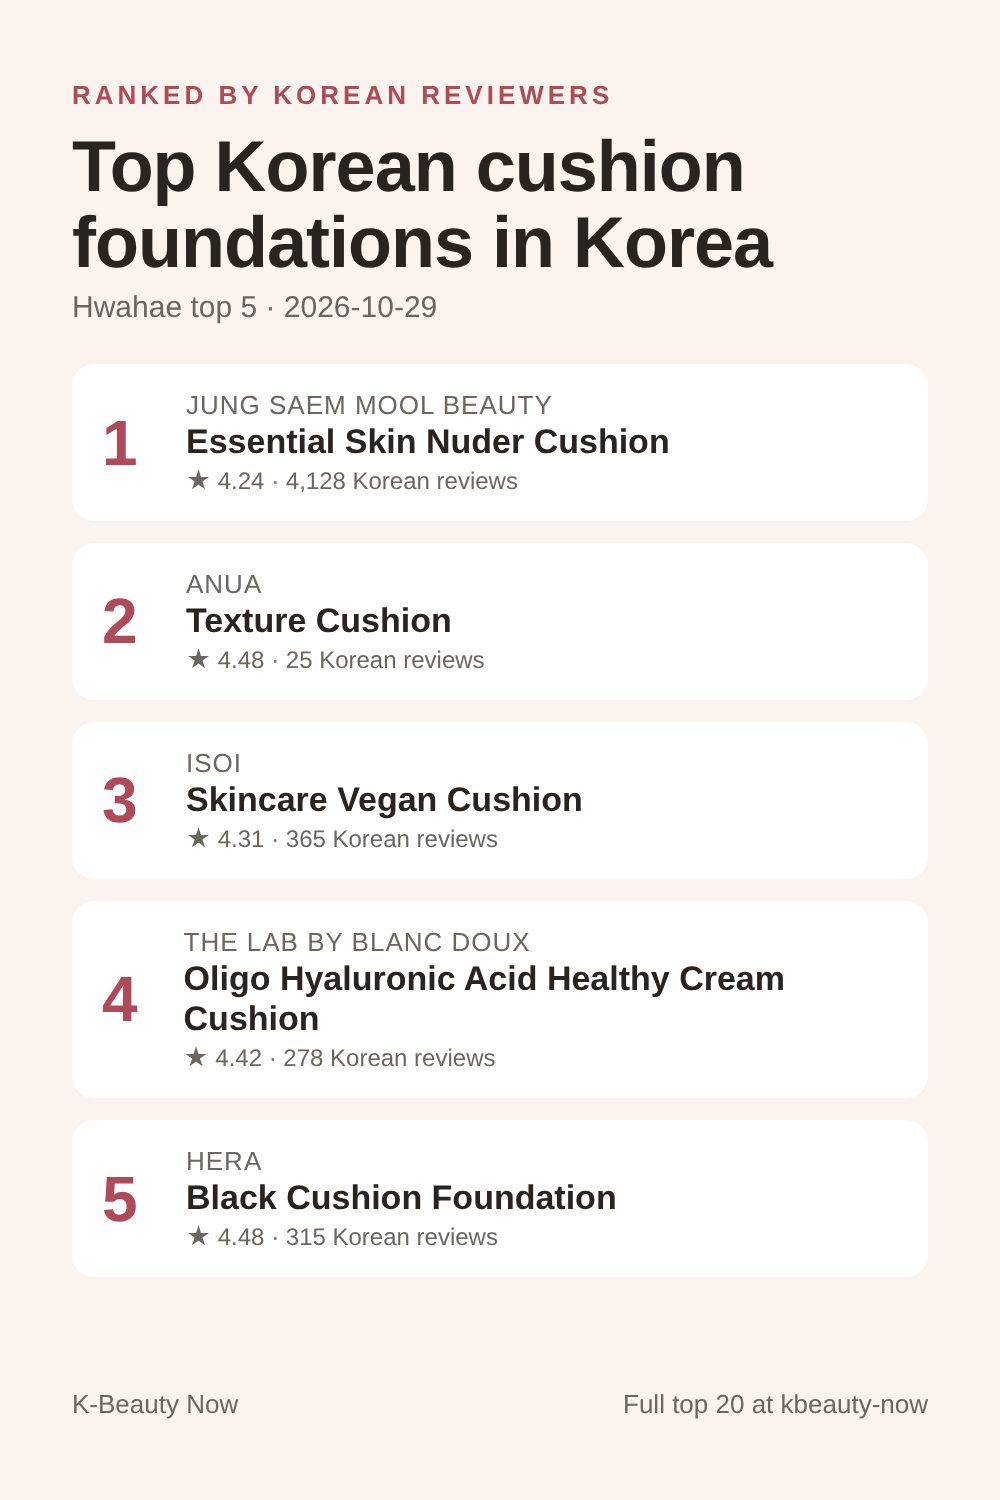
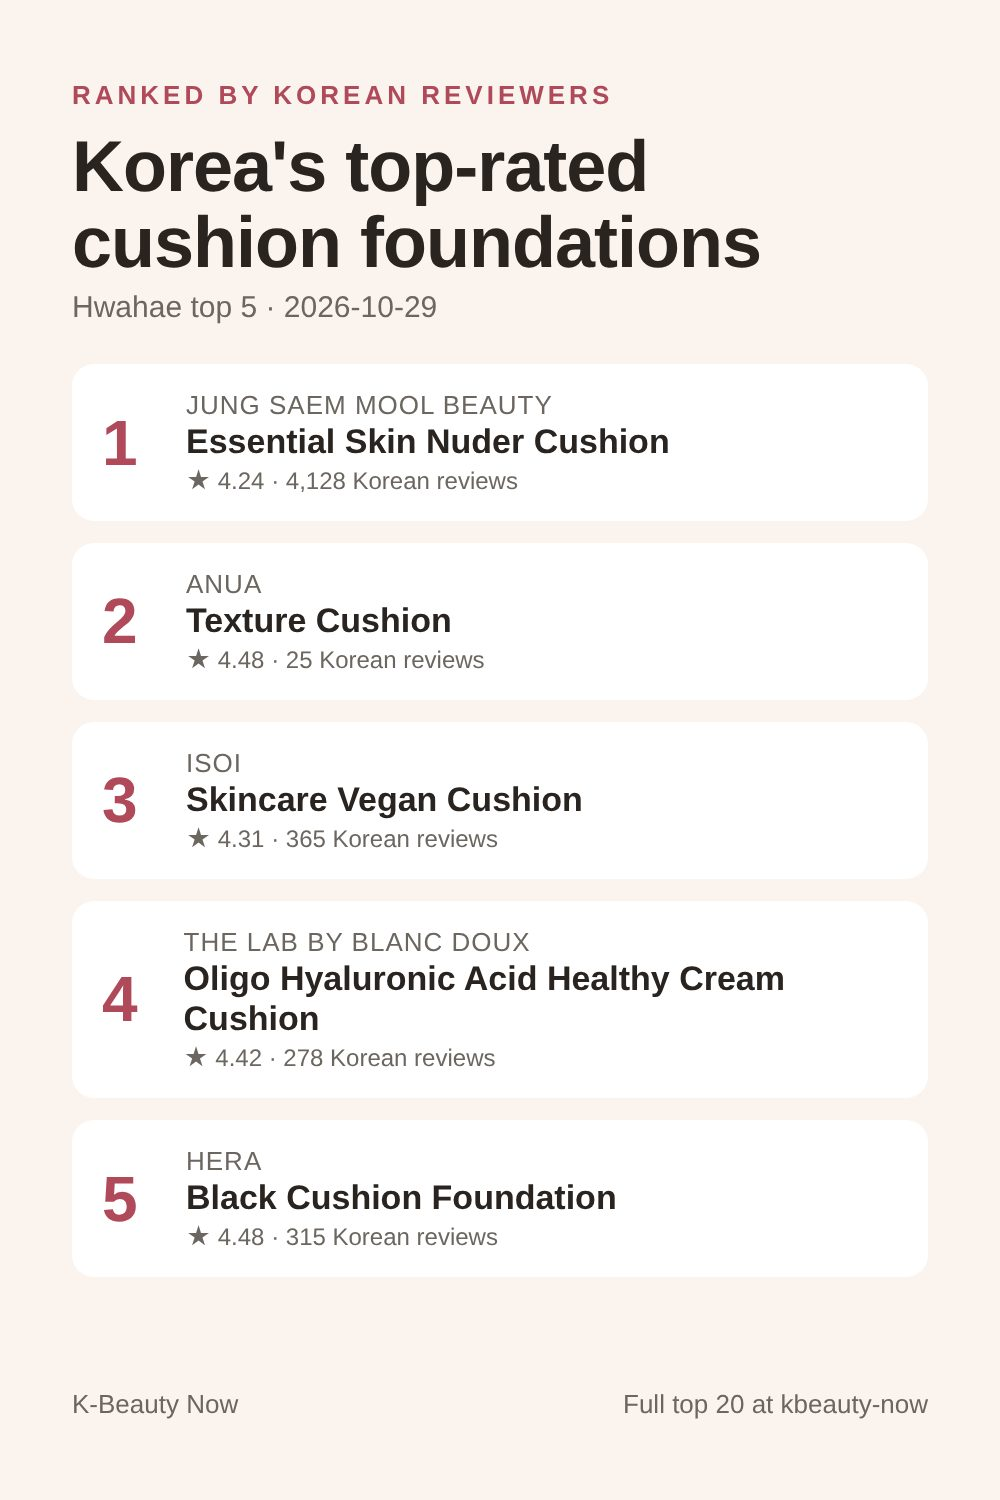
Better pin titles; monthly evergreen guide pins in RSS
Claude-Session: https://claude.ai/code/session_011xZqRnNmFioVy7SicKJdJx

Changed region(s): [[0.062, 0.092, 0.775, 0.184]]

diff --git a/build.py b/build.py
@@ -210,6 +210,15 @@ GUIDES = {
 }
 
 
+GUIDE_PINS = {  # evergreen pins, refreshed monthly (guid changes each month)
+    'korean-sunscreen': ('sunscreen', 'How to choose a Korean sunscreen', ['PA++++ is the top UVA grade.', 'Mineral (무기자차) suits sensitive skin.', 'Chemical (유기자차) feels lighter.', 'Look for the No white cast tag.']),
+    'korean-toner': ('toner', 'How to choose a Korean toner', ['Korean toner hydrates, it is not an astringent.', 'Toner pads with PHA: quick gentle exfoliation.', 'Dry skin: glycerin, panthenol, hyaluronic acid.', 'Sensitive skin: centella or mugwort.']),
+    'korean-serum': ('serum', 'Korean serum, essence or ampoule?', ['The names have no legal difference.', 'Pick by active ingredient, not the word.', 'Niacinamide: tone and oil control.', 'Centella, heartleaf: soothing.']),
+    'korean-moisturizer': ('cream', 'How to choose a Korean moisturizer', ['Gel cream: oily skin, hot weather.', 'Ceramide barrier cream: dry skin, winter.', 'Centella or panthenol: redness.', 'Seal in toner and serum with it.']),
+    'korean-cleanser': ('cleansing', 'Korean double cleansing in 2 steps', ['1. Oil or balm on dry skin, then rinse.', '2. Foam or gel cleanser.', 'Morning: one gentle cleanser is enough.', 'Tight after washing? Try a low-pH foam.']),
+}
+
+
 def extra_pages(data):
     by = {(rk['type'], rk['slug']): rk for rk in data['rankings']}
     up = data['updatedAt']
@@ -263,7 +272,7 @@ def pins_and_rss(data):
     pins, items = [], []
     for rk in data['rankings']:
         if rk['type'] == 'category':
-            t = f"Top {CAT[rk['slug']][1].replace('Korean ', 'Korean ')} in Korea"
+            t = f"Korea's top-rated {CAT[rk['slug']][1].replace('Korean ', '')}"
             href = f"{BASE}c/{rk['slug']}/"
         else:
             t = f"Best Korean skincare for {SKIN[rk['slug']]}"
@@ -275,6 +284,19 @@ def pins_and_rss(data):
         top = ', '.join(f"{brand_label(r).split(' (')[0]} {name_label(r).split(' SPF')[0].split(' (')[0]}" for r in rk['rows'][:3])
         items.append(f"<item><title>{esc(t)} ({up})</title><link>{href}</link><guid isPermaLink=\"false\">{rk['type']}-{rk['slug']}-{up}</guid>"
                      f"<pubDate>{pub}</pubDate><description>{esc('Hwahae top 5 today: ' + top + '. Ranked by Korean reviewers.')}</description>"
+                     f"<enclosure url=\"{BASE}pins/{f}\" type=\"image/jpeg\" length=\"0\"/></item>")
+    month = up[:7]
+    by = {(rk['type'], rk['slug']): rk for rk in data['rankings']}
+    for slug, (cat, title, tips) in GUIDE_PINS.items():
+        rk = by.get(('category', cat))
+        if not rk:
+            continue
+        r = rk['rows'][0]
+        pick = f"{brand_label(r).split(' (')[0]} {name_label(r).split(' SPF')[0].split(' (')[0]}"
+        f = f"guide-{slug}-{month}.jpg"
+        pins.append({'title': title, 'date': up, 'file': f, 'tips': tips, 'pick': pick})
+        items.append(f"<item><title>{esc(title)}</title><link>{BASE}guide/{slug}/</link><guid isPermaLink=\"false\">guide-{slug}-{month}</guid>"
+                     f"<pubDate>{pub}</pubDate><description>{esc(title + '. ' + ' '.join(tips) + ' Korea' + chr(39) + 's #1 right now: ' + pick + '.')}</description>"
                      f"<enclosure url=\"{BASE}pins/{f}\" type=\"image/jpeg\" length=\"0\"/></item>")
     json.dump({'pins': pins}, open(os.path.join(os.path.dirname(os.path.abspath(__file__)), 'pins.json'), 'w'), ensure_ascii=False)
     rss = (f'<?xml version="1.0" encoding="UTF-8"?><rss version="2.0"><channel><title>K-Beauty Now</title><link>{BASE}</link>'
